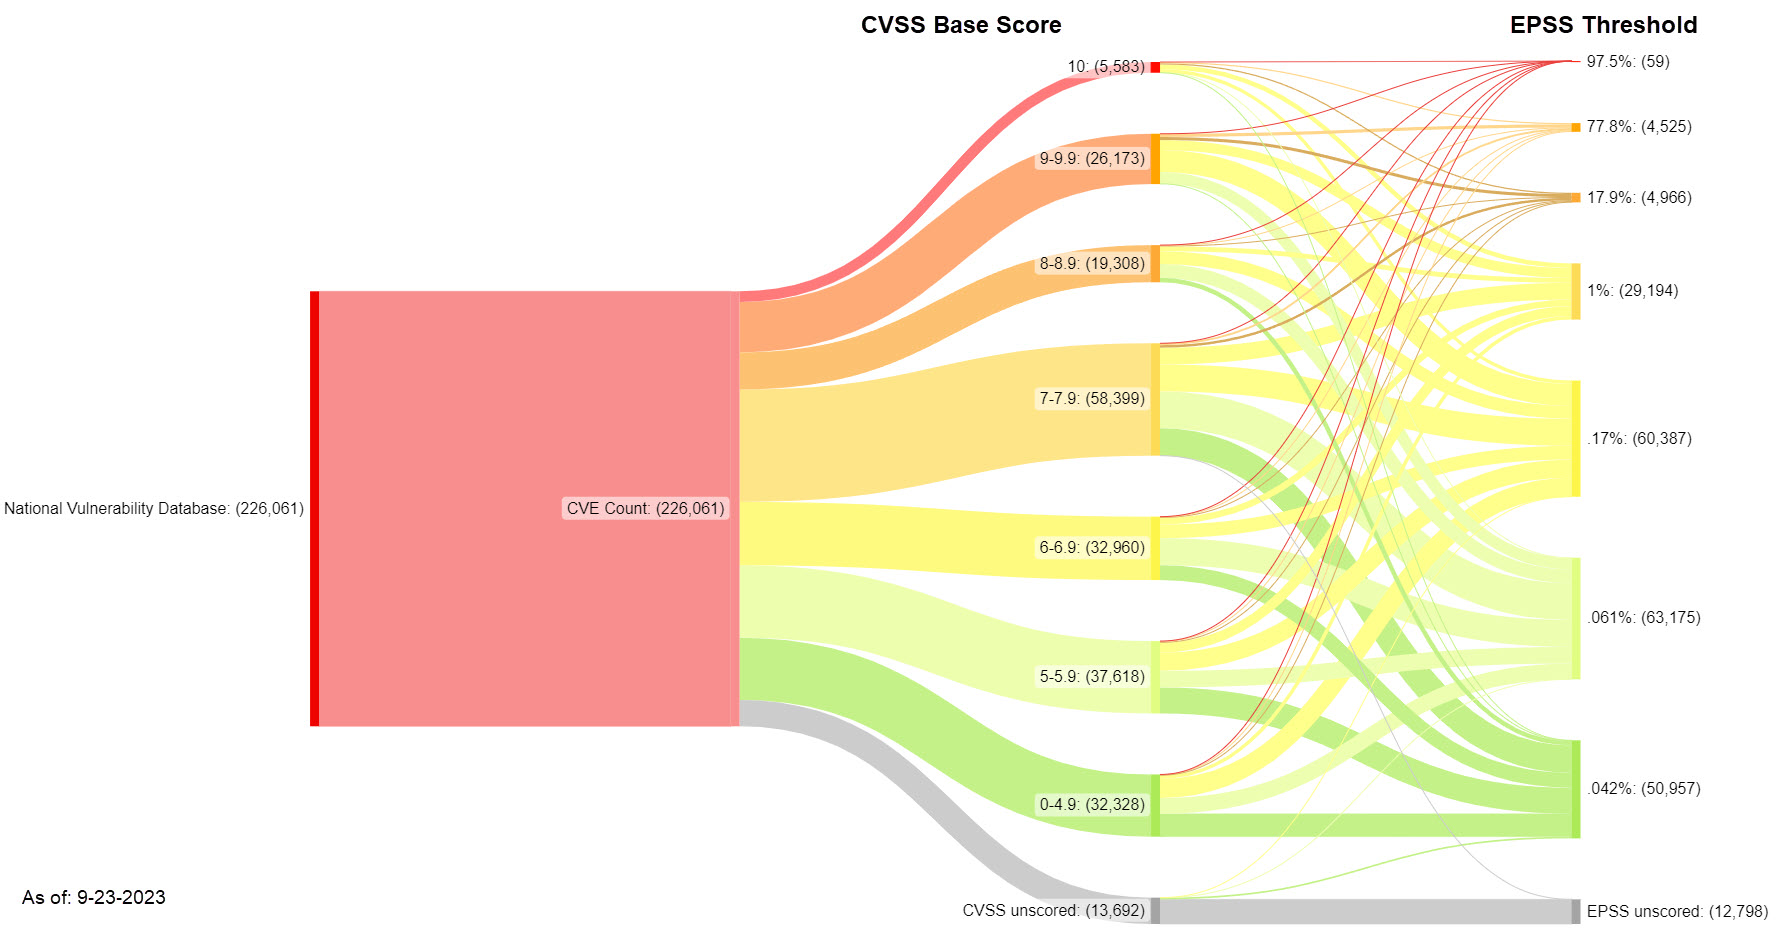
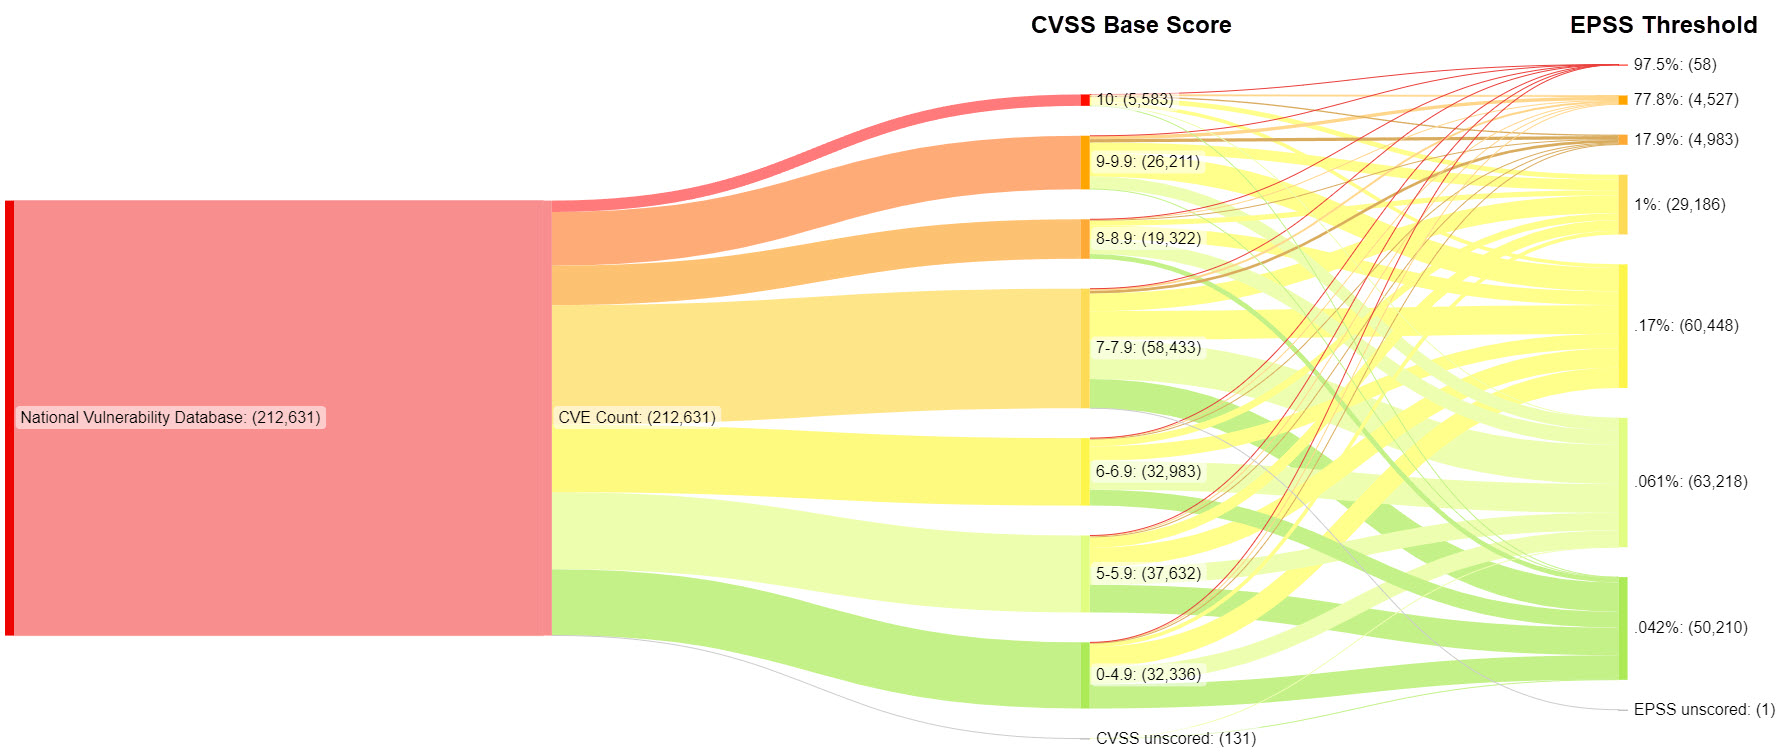
Updated data
Updated sample data, screenshot and description text to reflect updated filenames.

diff --git a/README.md b/README.md
@@ -19,7 +19,7 @@ The end result should be this:
 ![Image of the NVD CVSS vulnerabilities and how the EPSS enhances the scoring based on exploitability metrics.](cvss-epss-sankey-example.jpg)
 
 
-You can test the copy/paste of the data you should get in the resulting **sankey_data-DATE.csv** file by using the data in **[example_sankey_data_09232023.csv](/blob/main/example_sankey_data-09222023.csv)**.
+You can test the copy/paste of the data you should get in the resulting **sankey_data-DATE.csv** file by using the data in **[example_sankey_data_09262023.csv](/blob/main/example_sankey_data-09262023.csv)**.
 
 1. Open the example file above
 2. Copy/paste the data into sankeymatic.com
